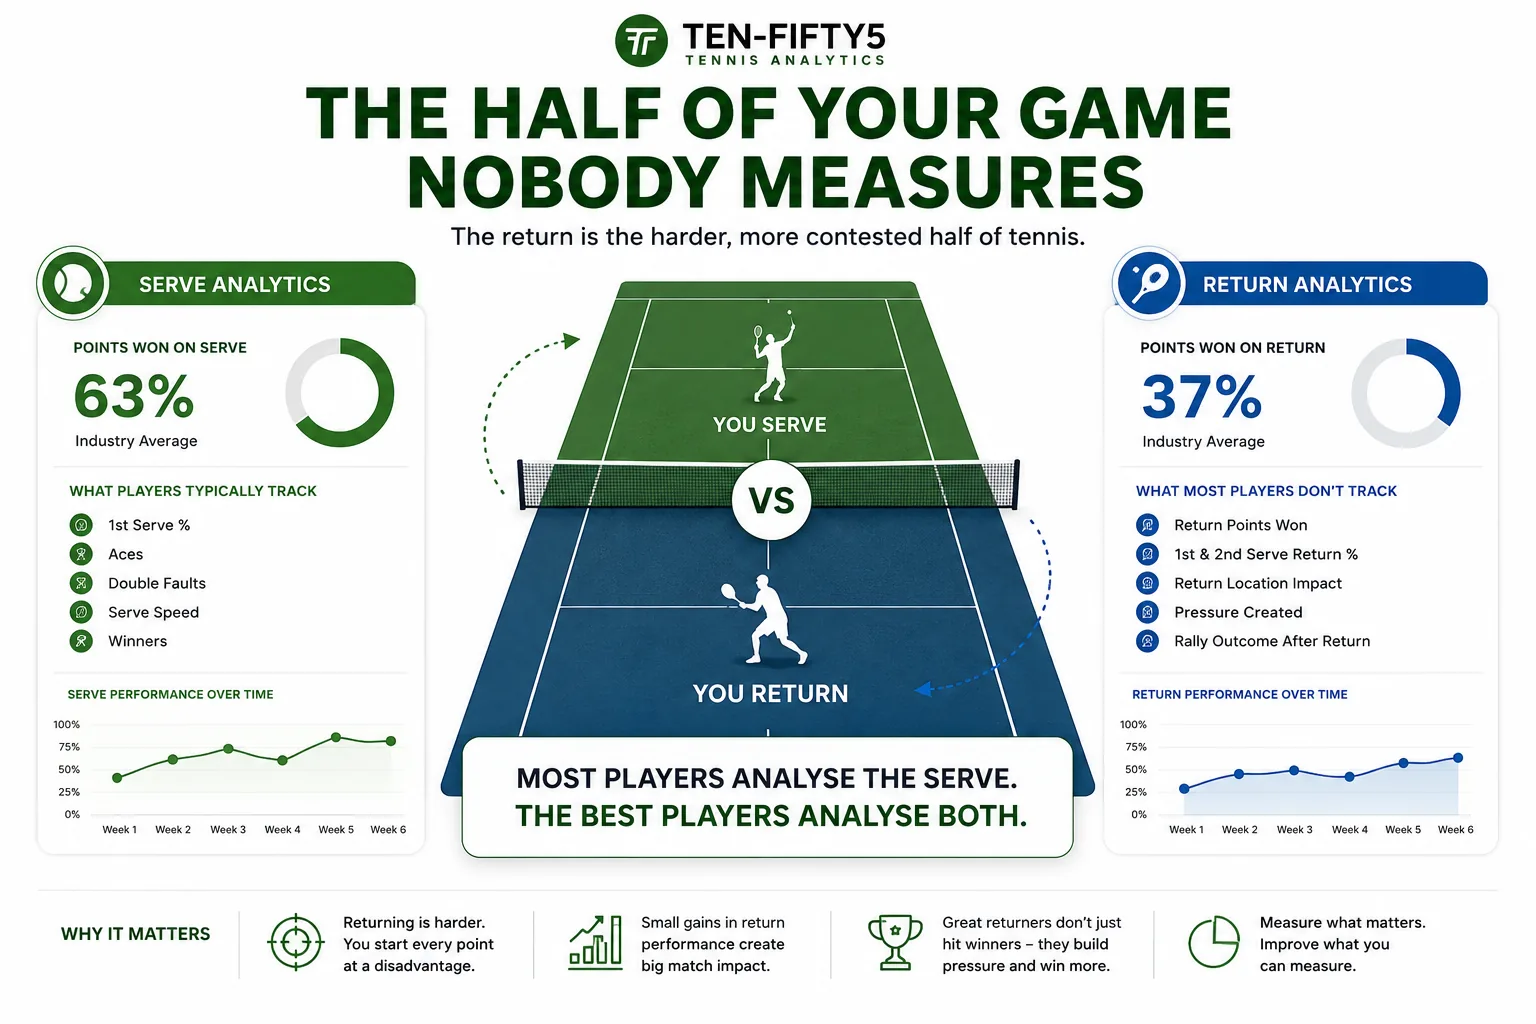
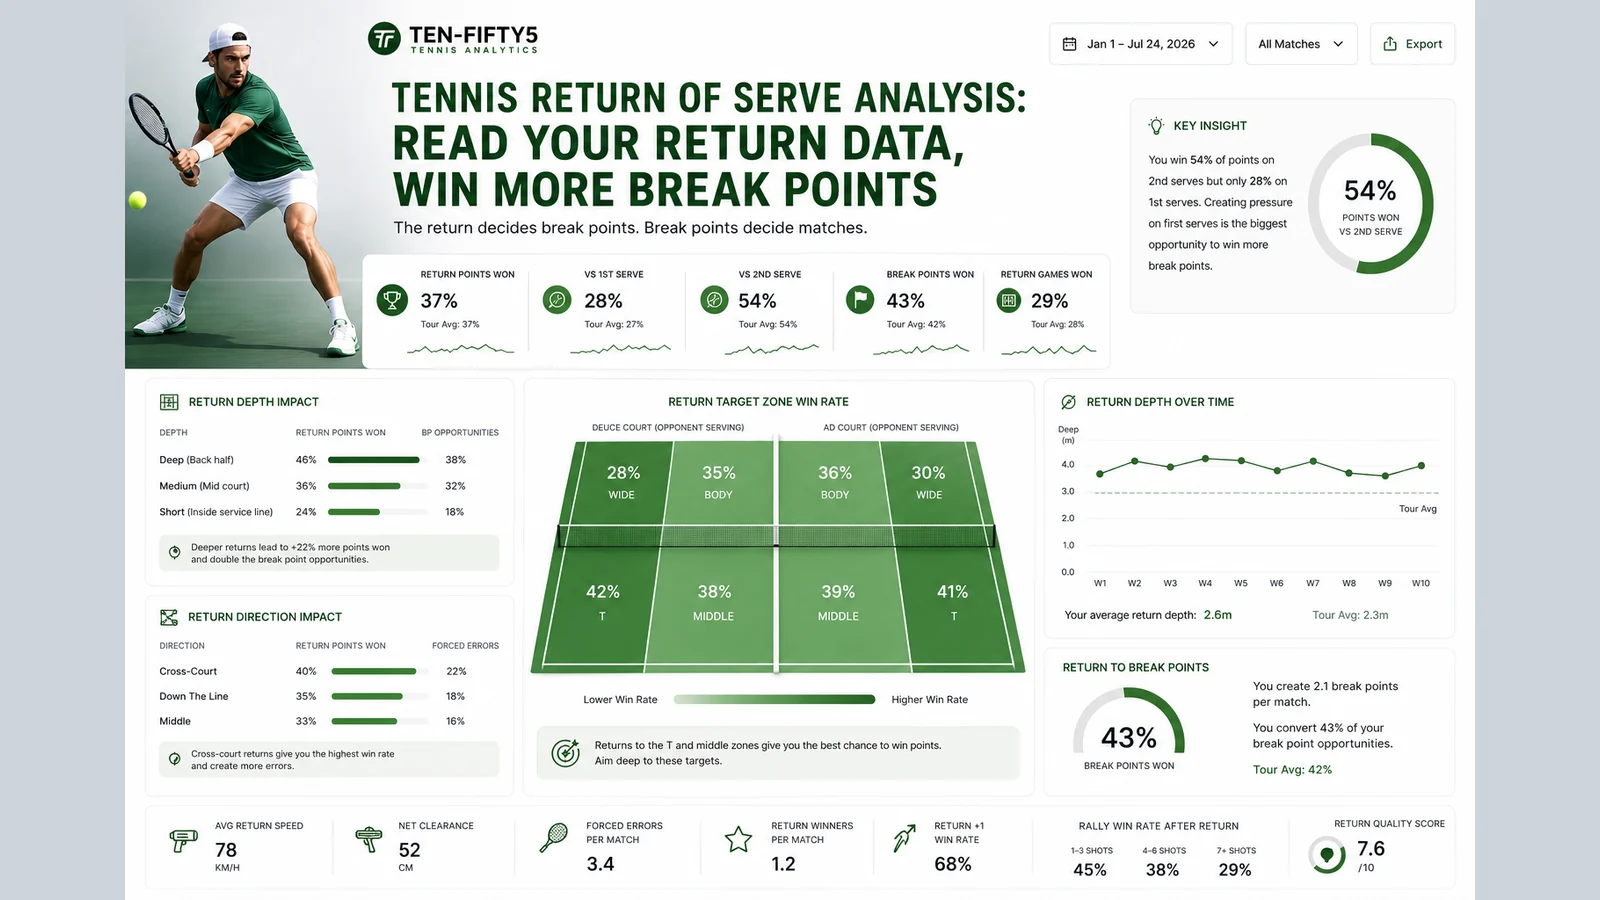
content(seo): refresh return-of-serve post w/ new branded infographic + fresh date
Coworker's weekly output was a 2nd return-of-serve post — would cannibalize the existing
(longer, ranking) one. Instead REFRESH the existing URL: swap in the new Ten-Fifty5-branded
return-analysis infographic (1.5MB PNG -> 117KB WebP) + bump date to 2026-07-26 (freshness
signal). No duplicate; the ranking page gets stronger.

diff --git a/frontend/blog/index.html b/frontend/blog/index.html
@@ -131,10 +131,10 @@ a{color:var(--green);text-decoration:none}a:hover{text-decoration:underline}
 <main>
   <div class="wrap">
     <div class="post-list">
+<a class="post-card" href="https://www.ten-fifty5.com/post/tennis-return-of-serve-analysis"><div class="thumb"><img src="/blog/images/return-of-serve-analysis.webp" alt="" loading="lazy" width="230" height="144"></div><div class="post-card-body"><div class="date">26 July 2026</div><h2>Tennis Return of Serve Analysis: The Stats That Win You Breaks</h2><p>Your return wins matches as often as your serve. Learn the return-of-serve stats that matter, the patterns that cost you breaks, and how to read your data.</p></div></a>
 <a class="post-card" href="https://www.ten-fifty5.com/post/how-to-reduce-unforced-errors-in-tennis-using-data"><div class="thumb"><img src="/blog/images/reduce-unforced-errors.webp" alt="" loading="lazy" width="230" height="144"></div><div class="post-card-body"><div class="date">18 July 2026</div><h2>How to Reduce Unforced Errors in Tennis Using Your Match Data</h2><p>Unforced errors cost club players more matches than missed winners. Learn to find, measure and cut them using your own tennis match data.</p></div></a>
 <a class="post-card" href="https://www.ten-fifty5.com/post/swingvision-alternative-for-android"><div class="post-card-body"><div class="date">26 June 2026</div><h2>The Best SwingVision Alternative for Android (2026)</h2><p>SwingVision is iPhone-only. Here&#x27;s the best SwingVision alternative for Android — Ten-Fifty5 analyses match video from any Android phone, with no app to install.</p></div></a>
 <a class="post-card" href="https://www.ten-fifty5.com/post/tennis-serve-kinetic-chain-biomechanics"><div class="thumb"><img src="/blog/images/serve-kinetic-chain.webp" alt="" loading="lazy" width="230" height="144"></div><div class="post-card-body"><div class="date">26 June 2026</div><h2>Your Serve&#x27;s Kinetic Chain: How to Read the Biomechanics That Build Your Power</h2><p>Learn how the kinetic chain builds serve power, why the sequence matters more than strength, and how to read your own serve biomechanics from match video.</p></div></a>
-<a class="post-card" href="https://www.ten-fifty5.com/post/tennis-return-of-serve-analysis"><div class="thumb"><img src="/blog/images/return-of-serve-analysis.webp" alt="" loading="lazy" width="230" height="144"></div><div class="post-card-body"><div class="date">19 June 2026</div><h2>Tennis Return of Serve Analysis: The Stats That Win You Breaks</h2><p>Your return wins matches as often as your serve. Learn the return-of-serve stats that matter, the patterns that cost you breaks, and how to read your data.</p></div></a>
 <a class="post-card" href="https://www.ten-fifty5.com/post/how-to-film-your-tennis-match-for-analysis"><div class="thumb"><img src="/blog/images/film-your-match.webp" alt="" loading="lazy" width="230" height="144"></div><div class="post-card-body"><div class="date">15 June 2026</div><h2>How to Film Your Tennis Match for Analysis (Any Camera, Any Court)</h2><p>How to film a tennis match for AI analysis — the camera, angle, height and settings that turn any phone footage into clean point-by-point match data. No special gear.</p></div></a>
 <a class="post-card" href="https://www.ten-fifty5.com/post/tennis-serve-placement-zones-how-to-read-and-win-from-the-t-wide-and-body"><div class="thumb"><img src="/blog/images/serve-placement-zones.webp" alt="" loading="lazy" width="230" height="144"></div><div class="post-card-body"><div class="date">15 June 2026</div><h2>Tennis Serve Placement Zones: How to Read (and Win From) the T, Wide, and Body</h2><p>Placement beats power. Learn what the T, wide and body serve each do to your opponent, and how to read your own serve data to build a winning pattern.</p></div></a>
 <a class="post-card" href="https://www.ten-fifty5.com/post/the-complete-guide-to-tennis-rally-analysis"><div class="thumb"><img src="/blog/images/rally-analysis.webp" alt="" loading="lazy" width="230" height="144"></div><div class="post-card-body"><div class="date">24 May 2026</div><h2>The Complete Guide to Tennis Rally Analysis</h2><p>Rally length and aggression profile reveal your tactical identity — where you win points, where you lose them, and how patterns shift under pressure.</p></div></a>

diff --git a/frontend/blog/tennis-return-of-serve-analysis.html b/frontend/blog/tennis-return-of-serve-analysis.html
@@ -17,7 +17,7 @@
 <meta name="twitter:title" content="Tennis Return of Serve Analysis: The Stats That Win You Breaks">
 <meta name="twitter:description" content="Your return wins matches as often as your serve. Learn the return-of-serve stats that matter, the patterns that cost you breaks, and how to read your data.">
 <meta name="twitter:image" content="https://www.ten-fifty5.com/blog/images/return-of-serve-analysis.webp">
-<script type="application/ld+json">{"@context":"https://schema.org","@type":"Article","headline":"Tennis Return of Serve Analysis: The Stats That Win You Breaks","description":"Your return wins matches as often as your serve. Learn the return-of-serve stats that matter, the patterns that cost you breaks, and how to read your data.","datePublished":"2026-06-19","image":"https://www.ten-fifty5.com/blog/images/return-of-serve-analysis.webp","author":{"@type":"Organization","name":"Ten-Fifty5"},"publisher":{"@type":"Organization","name":"Ten-Fifty5","logo":{"@type":"ImageObject","url":"https://www.ten-fifty5.com/og/og_homepage.png"}},"mainEntityOfPage":"https://www.ten-fifty5.com/post/tennis-return-of-serve-analysis"}</script>
+<script type="application/ld+json">{"@context":"https://schema.org","@type":"Article","headline":"Tennis Return of Serve Analysis: The Stats That Win You Breaks","description":"Your return wins matches as often as your serve. Learn the return-of-serve stats that matter, the patterns that cost you breaks, and how to read your data.","datePublished":"2026-07-26","image":"https://www.ten-fifty5.com/blog/images/return-of-serve-analysis.webp","author":{"@type":"Organization","name":"Ten-Fifty5"},"publisher":{"@type":"Organization","name":"Ten-Fifty5","logo":{"@type":"ImageObject","url":"https://www.ten-fifty5.com/og/og_homepage.png"}},"mainEntityOfPage":"https://www.ten-fifty5.com/post/tennis-return-of-serve-analysis"}</script>
 <script type="application/ld+json">{"@context":"https://schema.org","@type":"BreadcrumbList","itemListElement":[{"@type":"ListItem","position":1,"name":"Blog","item":"https://www.ten-fifty5.com/blog"},{"@type":"ListItem","position":2,"name":"Tennis Return of Serve Analysis: The Stats That Win You Breaks","item":"https://www.ten-fifty5.com/post/tennis-return-of-serve-analysis"}]}</script>
 <link rel="icon" href="/favicon.svg" type="image/svg+xml"><link rel="icon" href="/favicon.ico" sizes="any"><link rel="apple-touch-icon" href="/apple-touch-icon.png">
 <link rel="preconnect" href="https://fonts.googleapis.com"><link rel="preconnect" href="https://fonts.gstatic.com" crossorigin><link href="https://fonts.googleapis.com/css2?family=Inter:wght@300;400;500;600;700;800&display=swap" rel="stylesheet">
@@ -130,7 +130,7 @@ a{color:var(--green);text-decoration:none}a:hover{text-decoration:underline}
   <div class="wrap">
     <a class="eyebrow" href="https://www.ten-fifty5.com/blog" style="text-decoration:none;">Ten-Fifty5 Blog</a>
     <h1>Tennis Return of Serve Analysis: The Stats That Win You Breaks</h1>
-    <div class="post-meta">19 June 2026</div>
+    <div class="post-meta">26 July 2026</div>
   </div>
 </header>
 <figure class="post-hero"><img src="/blog/images/return-of-serve-analysis.webp" alt="Tennis Return of Serve Analysis: The Stats That Win You Breaks" width="900" height="506" fetchpriority="high" decoding="async"></figure>

diff --git a/frontend/blog/_posts/tennis-return-of-serve-analysis.md b/frontend/blog/_posts/tennis-return-of-serve-analysis.md
@@ -1,7 +1,7 @@
 ---
 title: Tennis Return of Serve Analysis: The Stats That Win You Breaks
 description: Your return wins matches as often as your serve. Learn the return-of-serve stats that matter, the patterns that cost you breaks, and how to read your data.
-date: 2026-06-19
+date: 2026-07-26
 image: /blog/images/return-of-serve-analysis.webp
 ---
 
